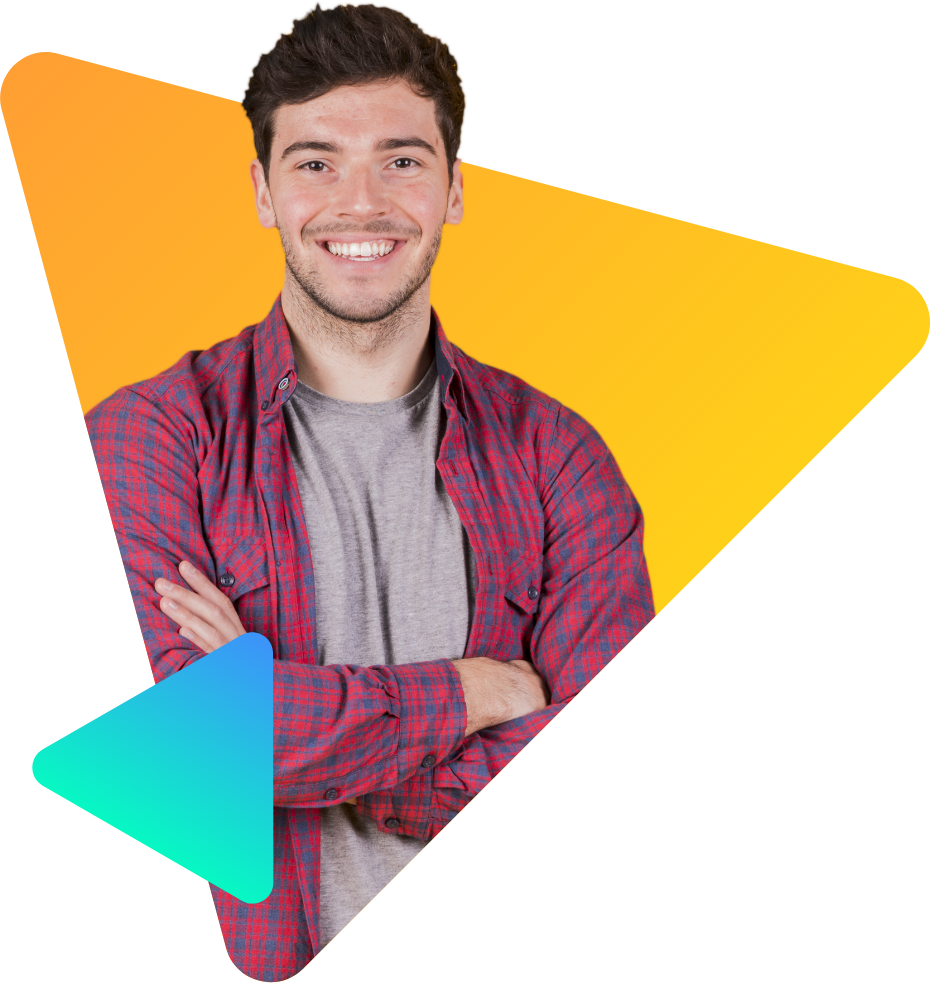
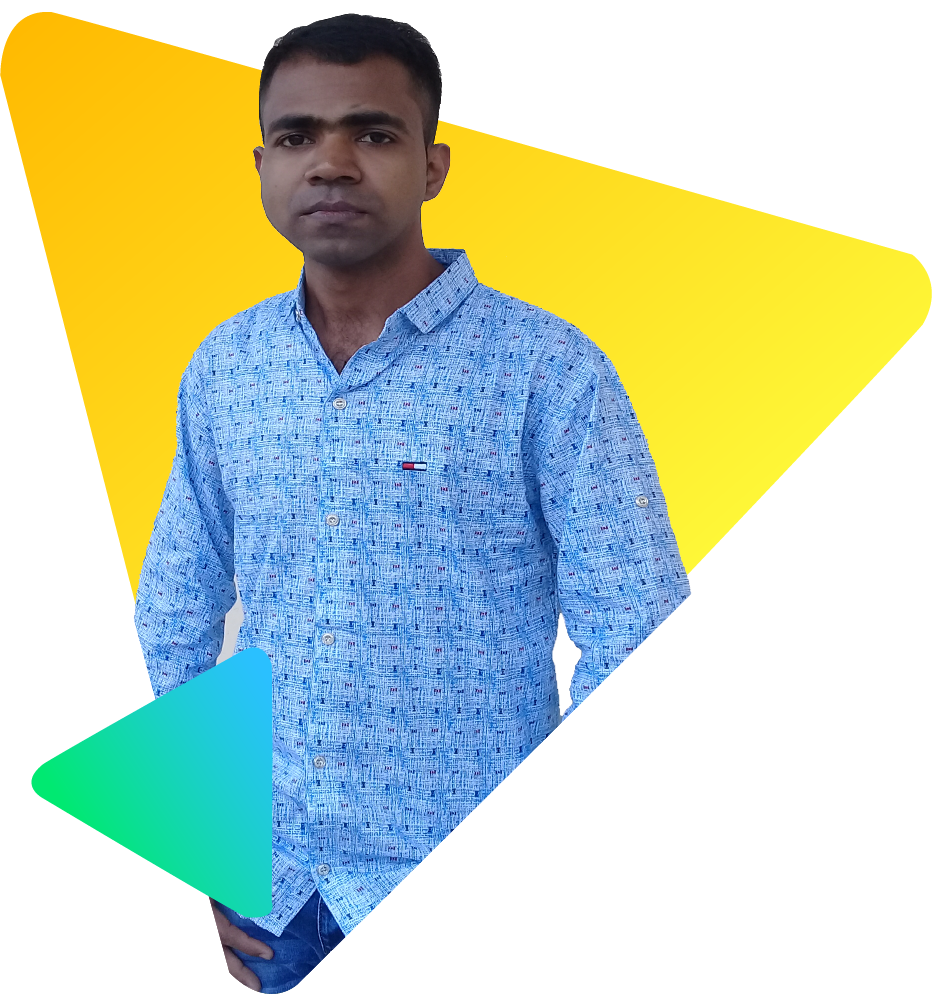
Finished my first ever website

diff --git a/index.html b/index.html
@@ -3,20 +3,20 @@
 <head>
     <meta charset="UTF-8">
     <meta name="viewport" content="width=device-width, initial-scale=1.0">
-    <link href="https://fonts.googleapis.com/css?family=Vollkorn&display=swap" rel="stylesheet">
+    <link href="https://fonts.googleapis.com/css2?family=Public+Sans:wght@100;200;300;400;600;800&display=swap" rel="stylesheet">     
     <link rel="stylesheet" href="style.css">
     <title>My Persopnal Website</title>
 </head>
 <body>
 
-    <section class="top-banner">
-        <div class="half-width">
+    <section class="header">
+        <div class="top-banner top-banner-content">
             <h2>Hello I'm</h2>
             <h1 class="color-highlight">Anjurul Islam</h1>
-            <p>You might saw me jumping, climbing buildings, and stoping trains.<br> but nobody pays me a dime for work. </p>
+            <p>I'm a expatriate of Mauritius, I Work at Exotic group, St Anne Rd, Stanley, Beau-bassin Rose-Hill. From Rangpur, Bangladesh. </p>
             <a class="link-button" href="https://www.facebook.com" target="_blank">HIRE ME</a>
         </div>
-        <div class="half-width">
+        <div class="top-banner">
             <img src="images/peter.png" alt="">
         </div>
     </section>
@@ -26,51 +26,48 @@
         </div>
         <div class="half-width halfwidth-content">
             <h2>Biography</h2>
-            <p>Lorem Ipsum is simply dummy text of the printing and typesetting industry. Lorem Ipsum has been the industry's standard dummy text ever since the 1500s, when an unknown printer took a galley of type and scrambled it to make a type.</p>
+            <p>I'm Anjurul islam from Rangpur. Currently, I work as a machine operator for exotic group based in Mauritius By 3 years. I have some favourite hobbeis, for example- gardening reading books, photography etc. I like watching movies in my leisure time. I want to be a web developer also. So I am learning web design & development. I am skilled on Photoshop ,Illustrator, Html, Css and so on. recently I am working as a  worker of a branding company. I am interested in working as a web developer in any IT sector in Bangladesh. </p>
             <a class="link-button" href="https://anjurul.github.io/my-portfolio-website/" target="_blank">Download CV</a>
         </div>
     </section>
 
-    <section class="latest-work">
+<section class="latest-work">
         <h2>My Latest Work</h2>
         <div class="content">
-             <div class="card">
-                   <div class="box">
-                        <img src="images/latest-work/work-1.png" alt="">
-                   </div>
-             </div>
-             <div class="card">
-                   <div class="box">
-                    <img src="images/latest-work/work-2.jpg" alt="">
-                   </div>
-             </div>
-             <div class="card">
-                   <div class="box">
-                    <img src="images/latest-work/work-3.jpg" alt="">
-                   </div>
-             </div>
+            <div class="card">
+                <img src="images/latest-work/work-1.png" alt="">
+            </div>
+    
+            <div class="card">
+                <img src="images/latest-work/work-2.jpg" alt="">
+            </div>
+    
+            <div class="card">
+                <img src="images/latest-work/work-3.jpg" alt="">
+            </div>
         </div>
+        
 </section>
 
 <section class="footer">
     <div class="footer-content">
         <h2>What Client are say</h2>
-        <h3>Bruce Moccy</h3>
-        <p><span class="sub-title">Founder & CEO Alies</span></p>
+        <h3 class="name">Bruce Moccy</h3>
+        <h6><span class="title">Founder & CEO Alies</span></h6>
         <p><span class="sms">Lorem Ipsum is simply dummy text of the<br> printing and type setting industry. Lorem Ipsum</span> </p>
     </div>
     <div class="mail-box">
         <div class="mail-content">
-            <p>Leave me a message in the </p>
-        <p><span class="email">anjurul.net02@gmai.com</span></p>
+            <h5>Leave me a message in the </h5>
+        <h5><span class="email">anjurul.net02@gmai.com</span></h5>
         </div>
     </div>
-    <footer>
-        <p>Md Anjurul Islam &copy;2020 | All Right Reserved.</p>
-    </footer> 
+    
 </section>
 
-
+<footer>
+    <p>Md Anjurul Islam &copy;2020 | All Right Reserved.</p>
+</footer> 
 
     
 </body>

diff --git a/style.css b/style.css
@@ -1,16 +1,21 @@
-body {
+*{
     margin: 0;
-    font-family: 'Vollkorn', serif
+    padding: 0;
+}
+body {
+    font-family: 'Public Sans', sans-serif;
 }
 h1 {
     font-size: 50px;
 }
 h2 {
     font-size: 40px;
+    font-weight: 600;
 }
 p {
-    color: dimgrey;
-    margin-bottom: 20px;
+    color: dimgrey; 
+    margin-top: 30px;
+    margin-bottom: 40px; 
 }
 .color-highlight{
     color: #EC4C7A;
@@ -19,14 +24,30 @@ section{
     height: 650px;
 }
 
-.half-width img{
-    width: 100%;
-    height: 500px;
-}
-.top-banner{
+
+.header{
     background-image: url("images/header-bg.png");
     background-repeat: no-repeat;
-    background-position: center;  
+    background-position: center;
+    background-size: cover;
+}
+
+.top-banner{
+    width: 37%;
+    float: left;
+    margin-left: 5%;
+    margin-top: 5%;
+    
+}
+
+.top-banner-content{
+    margin-top: 200px;
+    margin-left: 170px;
+}
+
+.top-banner img{
+    width: 100%;
+    height: 500px;
 }
 
 .half-width{
@@ -37,8 +58,13 @@ section{
     padding-left: 2%;
 }
 
+.half-width img{
+    width: 100%;
+    height: 500px;
+}
+
 .halfwidth-content{
-    margin-top: 100px;
+    margin-top: 150px;
 }
 
 .link-button{
@@ -48,17 +74,19 @@ section{
     border-radius: 5px;
     color: white;
     font-weight: 550;
+    
 }
 
 .biography{
     background-image: url("images/biography-bg.png");
     background-repeat: no-repeat;
     background-position: left;
-       
+    margin-bottom: 50px;
+
 }
 
 .latest-work{
-   float:left;
+   height: 500px;
    width: 100%;
    background-image: url("images/latest-work-bg.png");
    background-repeat: no-repeat;
@@ -66,8 +94,9 @@ section{
    background-size: cover;
    text-align: center;
    padding:50px 10px;
-   margin-bottom:50px; 
-   }
+   margin-bottom: 50px;
+
+}
    
 .latest-work .content{
     float:left;
@@ -77,41 +106,49 @@ section{
    }
    
    .latest-work .content .card{
-   width:25%;
+   width:26%;
    float: left;
    padding:0px 15px;
    }
 
-.latest-work .content .card .box img{
+.latest-work .content .card img{
     width: 100%;
    }
 
-   .footer{
+.footer{
     width: 100%;
-	height: 700px;
-	background-image: url("images/footer-bg.png");
-	background-position: right;
+	height: 500px;
+    background-image: url("images/footer-bg.png");
+    background-position: center;
 	background-size: cover;
     text-align: center;
    }
+.name{
+    margin-top: 50px;
+    margin-bottom: 20px;
+}
 
-   .sub-title{
+.title{
     font-size: small;
+    color: dimgray;
+    
 }
 
 .sms{
+    margin-top: 50px;
     color: black;
     font-size: large;
     font-weight: 500;
 }
 
 .mail-box{
-    width: 500px;
+    width: 600px;
     height: 100px;
     background-image: linear-gradient(45deg, #ED4B70, #EC5094);
     border-radius: 5px;
     margin: auto;
-    margin-bottom: 20px;
+    padding: 10px 10px 10px 10px;
+    margin-top: 50px;
 
 }
 
@@ -119,11 +156,13 @@ section{
     margin-top: 5px;
     padding-top: 5px;
     color: white;
+    
 }
 
-.mail-content p{
+.mail-content h5{
+    margin-top: 15px;
     color: white;
-    font-size: small;
+    font-size: smaller;
 }
 
 .mail-content .email{
@@ -131,5 +170,5 @@ section{
 }
 
 footer p{
-    
+    text-align: center;
 }
